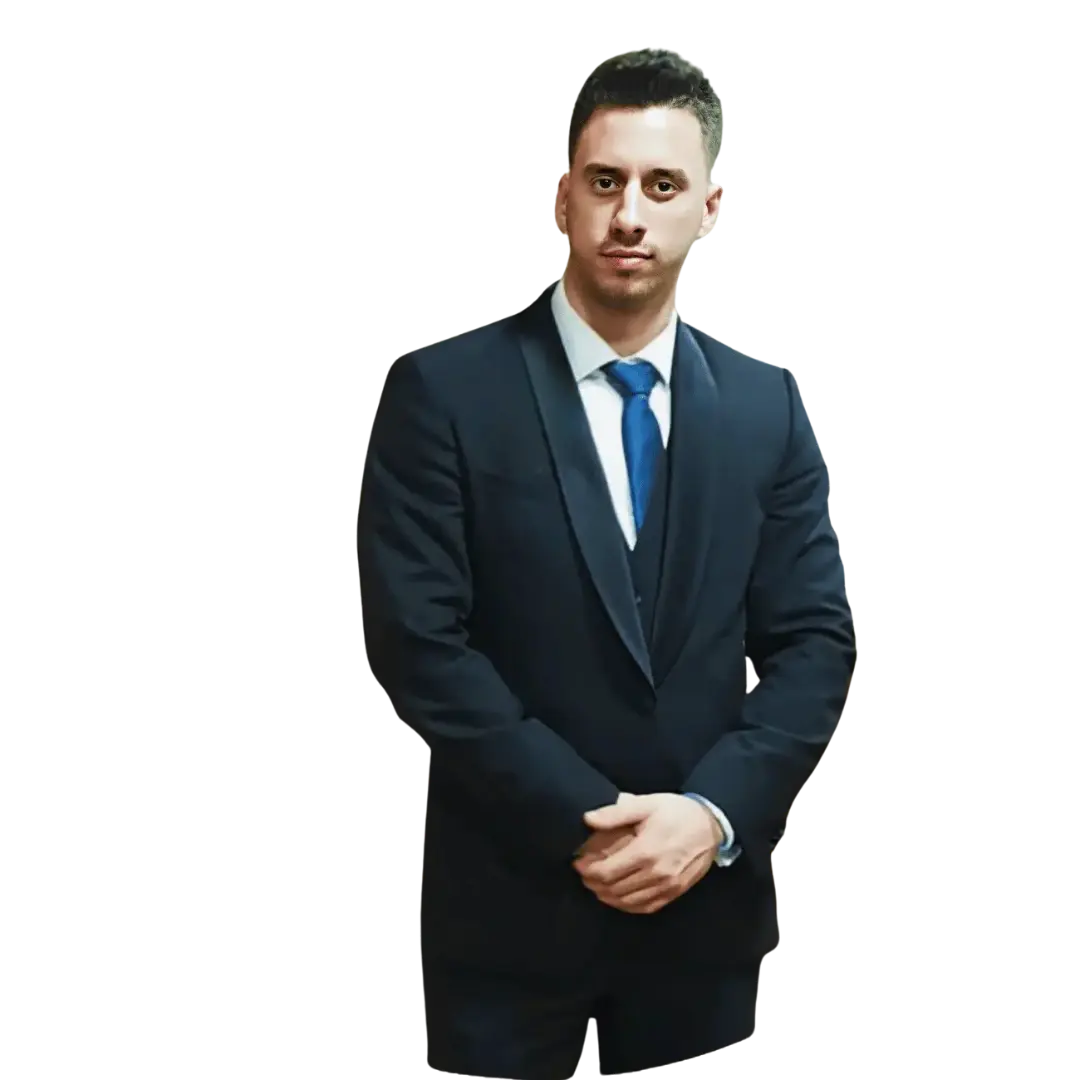
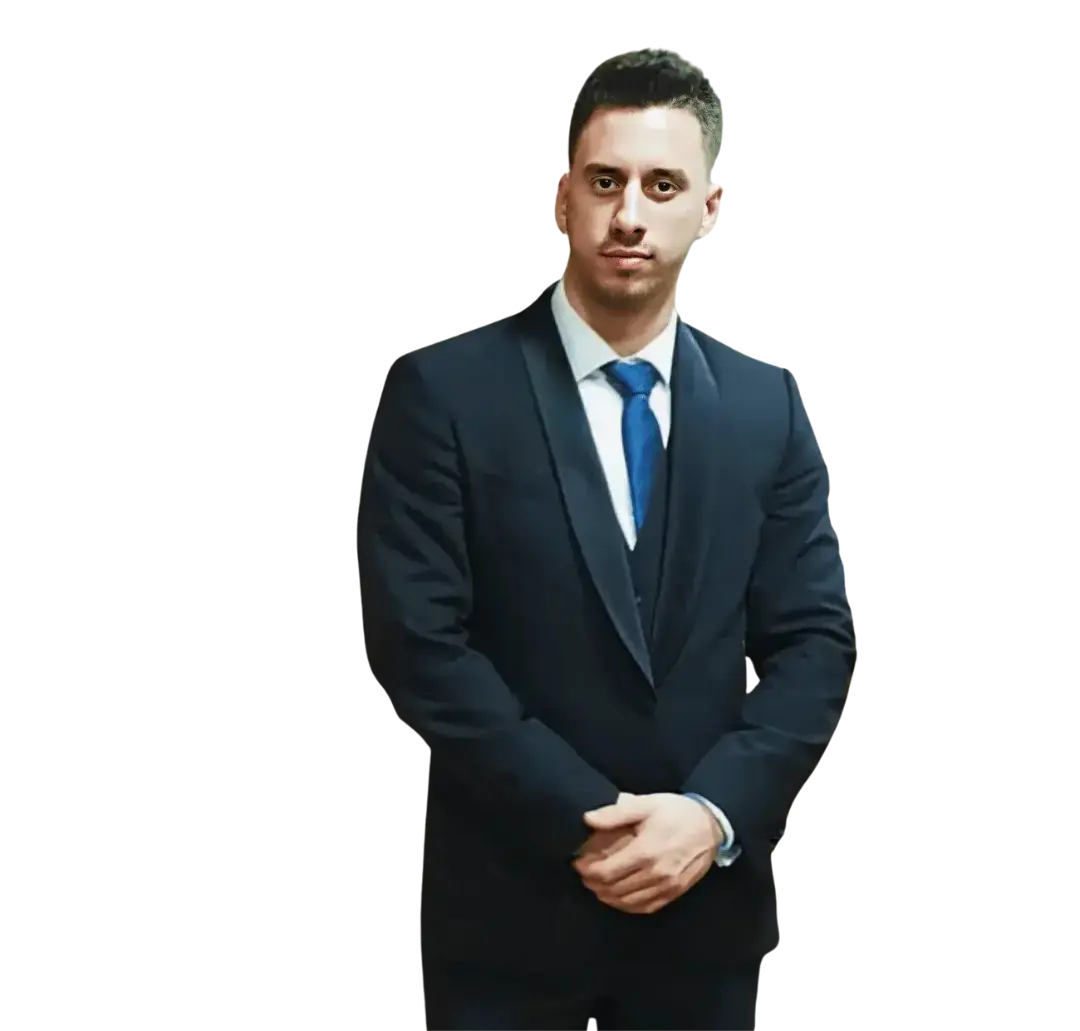
Mejorada la foto con un gradiente transparente

diff --git a/src/components/HomeSection/_HomeSection.scss b/src/components/HomeSection/_HomeSection.scss
@@ -56,7 +56,8 @@
     }
 
     .foto {
-      width: 100%;
+      width: 98%;
+      mask-image: linear-gradient(black 75%, transparent);
     }
   }
 }
